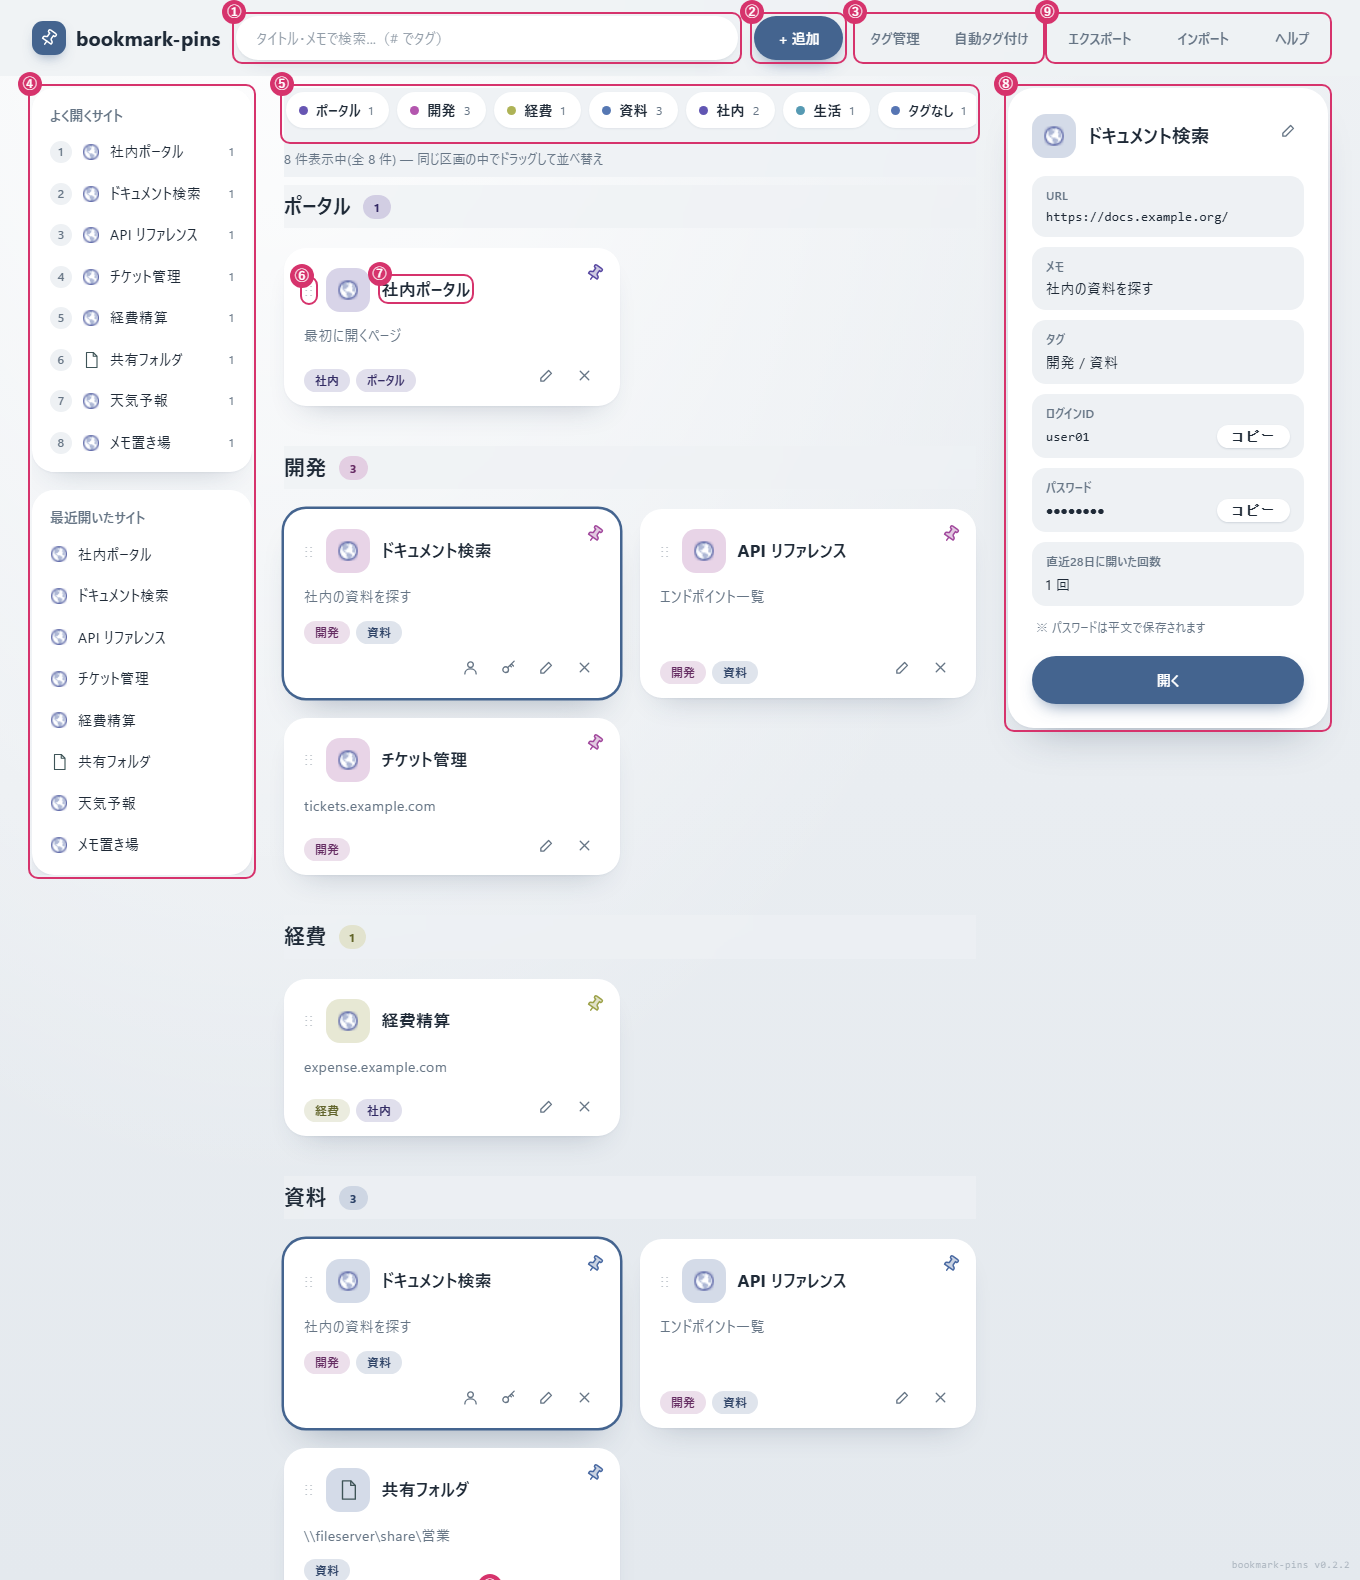
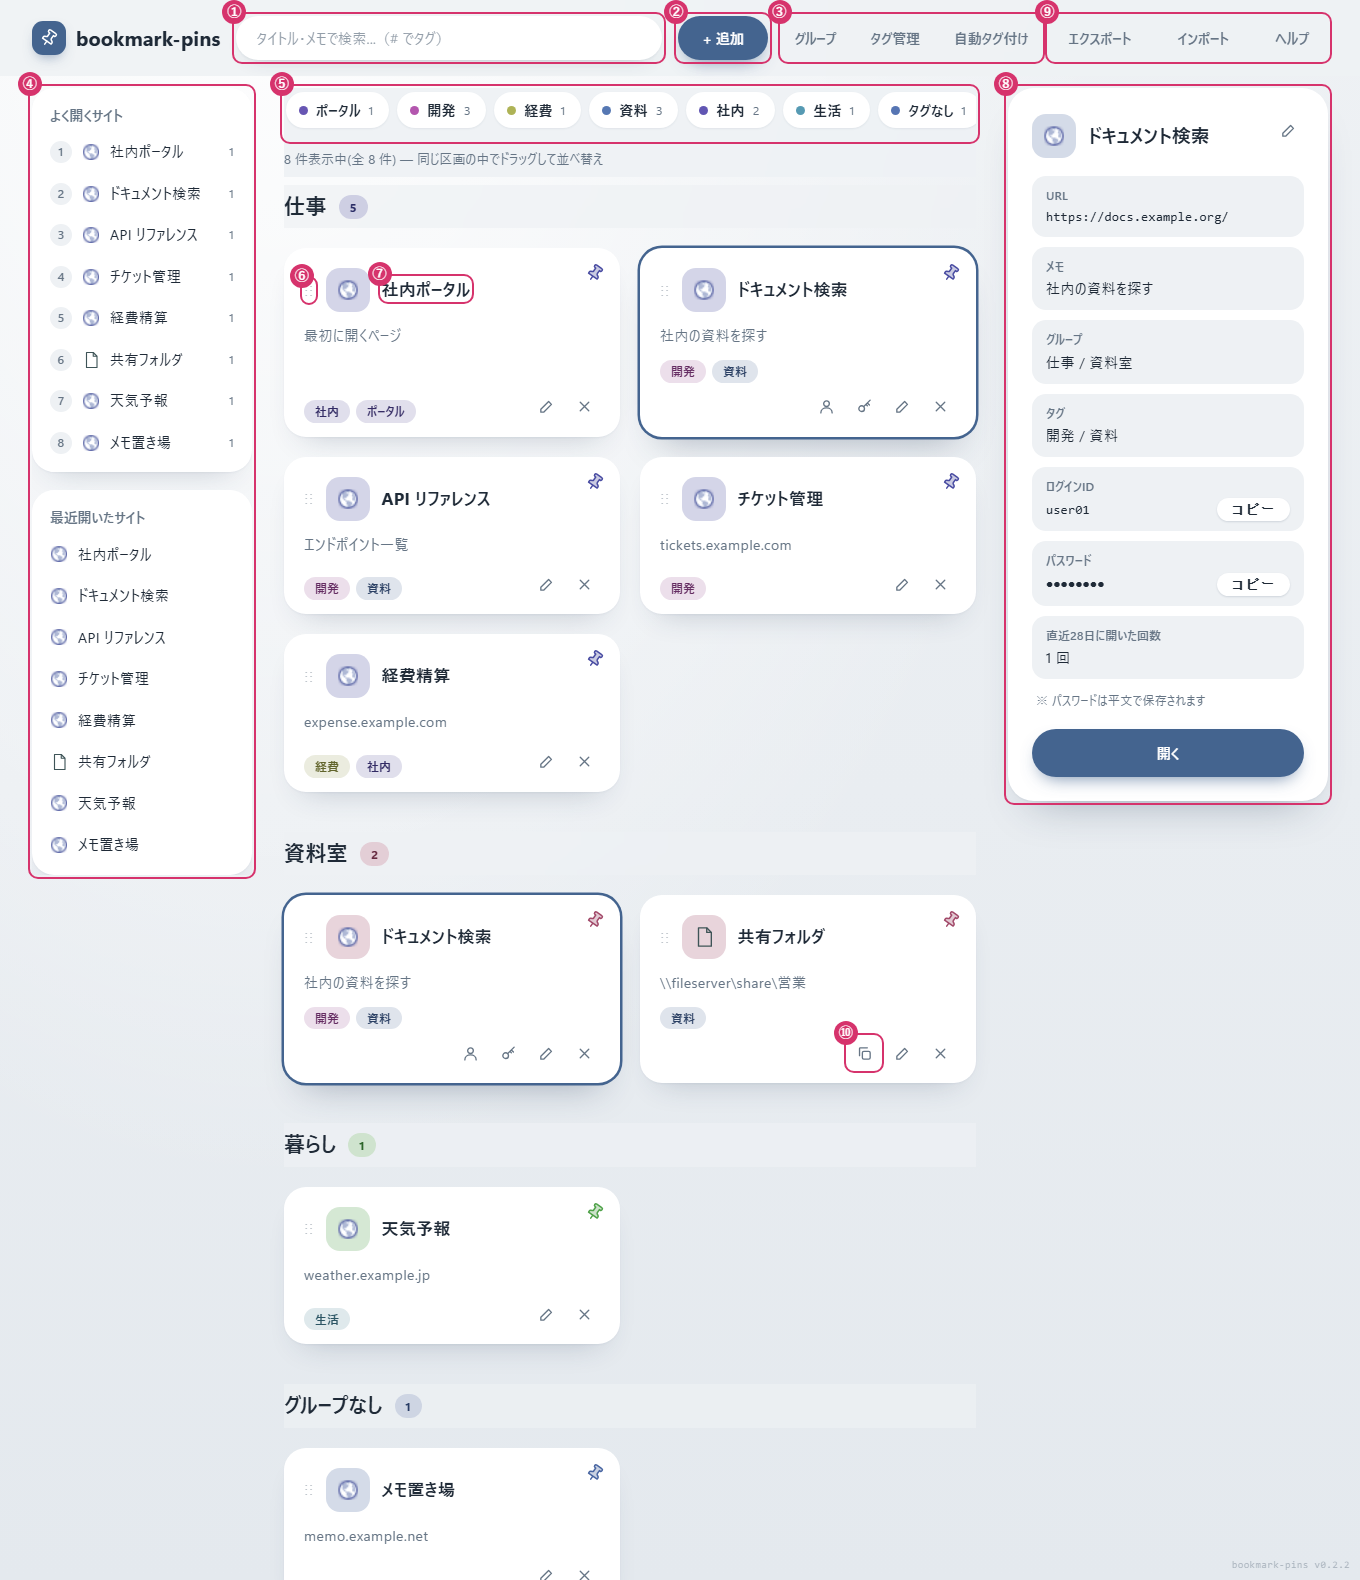
docs: グループの導入に合わせて、ヘルプ・README・図を更新する
ヘルプの Escape の説明にグループのパネルを足し、README にグループの付け方・絞り込み・管理・移行を足した。画面の見かたの図を撮り直した。

diff --git a/bookmarks.html b/bookmarks.html
@@ -1098,7 +1098,7 @@
   <h2>キーボードショートカット</h2>
   <dl class="help-grid">
     <dt><kbd>/</kbd></dt><dd>検索ボックスへフォーカス</dd>
-    <dt><kbd>Esc</kbd></dt><dd>検索欄にフォーカス中は、入力中なら検索をクリア、入力が空でタグの絞り込み中なら絞り込みを解除。それ以外はヘルプ &rarr; 自動タグ付け &rarr; タグ管理 &rarr; フォームの順に閉じ、何も無ければフォーカスを外す</dd>
+    <dt><kbd>Esc</kbd></dt><dd>検索欄にフォーカス中は、入力中なら検索をクリア、入力が空でグループ・タグの絞り込み中なら絞り込みを解除。それ以外はヘルプ &rarr; グループのパネル &rarr; 自動タグ付け &rarr; タグ管理 &rarr; フォームの順に閉じ、何も無ければフォーカスを外す</dd>
   </dl>
 </section>
 
@@ -3413,7 +3413,7 @@
     toggleHelp();
   });
 
-  // Escapeは「手前にあるもの」から1段階ずつ閉じる: ヘルプ → 自動タグ付け → タグ管理モーダル → 各種フォーム(編集・追加)。
+  // Escapeは「手前にあるもの」から1段階ずつ閉じる: ヘルプ → グループのパネル → 自動タグ付け → タグ管理モーダル → 各種フォーム(編集・追加)。
   // フォームは2種をまとめて1段階として扱う(同時に開いていても1回のEscapeで閉じ切る)。閉じる層が何も無ければ、最後にフォーカスを外す。
   function closeTopmostLayer() {
     if (!helpPanel.hidden) {
